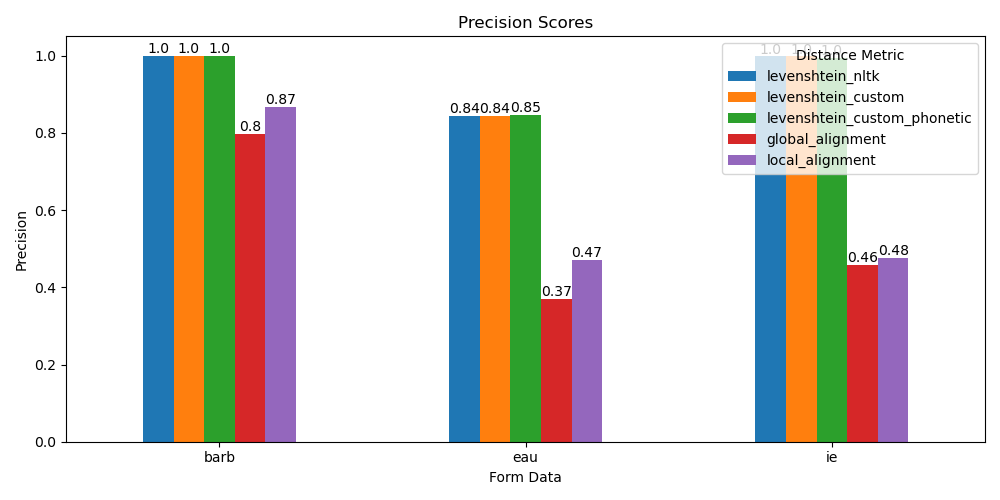
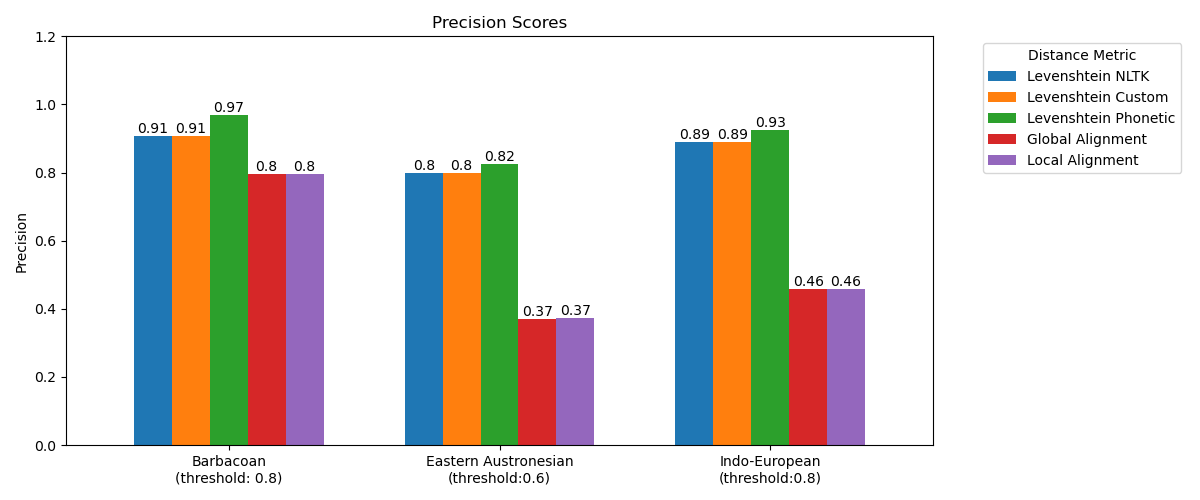
Plotting all metric scores

diff --git a/plot_all_metrics.py b/plot_all_metrics.py
@@ -36,7 +36,11 @@ distance_metrics = [
     "global_alignment",
     "local_alignment",
 ]
-optimal_threshold = 0.2
+optimal_thresholds = {
+    "barb": 0.8,
+    "eau": 0.6,
+    "ie": 0.8,
+}
 
 
 precision_df = pd.DataFrame(columns=distance_metrics, index=form_data.keys())
@@ -48,7 +52,10 @@ for form_name, (forms, cognacy) in form_data.items():
         print(f"Calculating scores for {form_name} forms using {distance_metric}...")
 
         clusters = Clustering(
-            forms, cognacy, threshold=optimal_threshold, distance_metric=distance_metric
+            forms,
+            cognacy,
+            threshold=optimal_thresholds[form_name],
+            distance_metric=distance_metric,
         )
 
         precision, recall, f1 = clusters.score()
@@ -56,13 +63,32 @@ for form_name, (forms, cognacy) in form_data.items():
         recall_df.loc[form_name, distance_metric] = recall
         f1_df.loc[form_name, distance_metric] = f1
 
+legend_labels = [
+    "Levenshtein NLTK",
+    "Levenshtein Custom",
+    "Levenshtein Phonetic",
+    "Global Alignment",
+    "Local Alignment",
+]
+x_labels = [
+    "Barbacoan\n(threshold: 0.8)",
+    "Eastern Austronesian\n(threshold:0.6)",
+    "Indo-European\n(threshold:0.8)",
+]
 
-ax = precision_df.plot(kind="bar", figsize=(10, 5))
+ax = precision_df.plot(kind="bar", figsize=(12, 5), width=0.7)
 plt.title("Precision Scores")
-plt.xlabel("Form Data")
+# plt.xlabel("Form Data")
 plt.ylabel("Precision")
-plt.legend(title="Distance Metric")
+plt.legend(
+    title="Distance Metric",
+    labels=legend_labels,
+    bbox_to_anchor=(1.05, 1),
+    loc="upper left",
+)
 plt.xticks(rotation=0)
+plt.xticks(ticks=range(len(precision_df.index)), labels=x_labels)
+plt.ylim(0, 1.2)
 for p in ax.patches:
     ax.annotate(
         str(round(p.get_height(), 2)),
@@ -77,12 +103,19 @@ plt.savefig("./plots/precision_all")
 plt.show()
 
 
-ax = recall_df.plot(kind="bar", figsize=(10, 5))
+ax = precision_df.plot(kind="bar", figsize=(12, 5), width=0.7)
 plt.title("Recall Scores")
-plt.xlabel("Form Data")
+# plt.xlabel("Form Data")
 plt.ylabel("Recall")
-plt.legend(title="Distance Metric")
+plt.legend(
+    title="Distance Metric",
+    labels=legend_labels,
+    bbox_to_anchor=(1.05, 1),
+    loc="upper left",
+)
 plt.xticks(rotation=0)
+plt.xticks(ticks=range(len(precision_df.index)), labels=x_labels)
+plt.ylim(0, 1.2)
 for p in ax.patches:
     ax.annotate(
         str(round(p.get_height(), 2)),
@@ -97,12 +130,19 @@ plt.savefig("./plots/recall_all")
 plt.show()
 
 
-ax = f1_df.plot(kind="bar", figsize=(10, 5))
+ax = precision_df.plot(kind="bar", figsize=(12, 5), width=0.7)
 plt.title("F1 Scores")
-plt.xlabel("Form Data")
+# plt.xlabel("Form Data")
 plt.ylabel("F1 Score")
-plt.legend(title="Distance Metric")
+plt.legend(
+    title="Distance Metric",
+    labels=legend_labels,
+    bbox_to_anchor=(1.05, 1),
+    loc="upper left",
+)
 plt.xticks(rotation=0)
+plt.xticks(ticks=range(len(precision_df.index)), labels=x_labels)
+plt.ylim(0, 1.2)
 for p in ax.patches:
     ax.annotate(
         str(round(p.get_height(), 2)),
